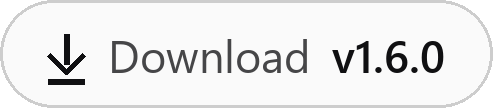
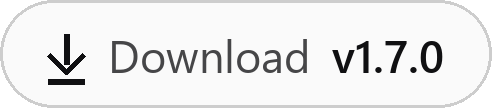
Release PlayBridge 1.7.0: PSN friends and messages, controllers on the PS5, trophies, stats and more

Changed region(s): [[0.2134, 0.3611, 0.6402, 0.6944], [0.6707, 0.3611, 0.8841, 0.6944], [0.0915, 0.3333, 0.1829, 0.6944]]

diff --git a/README.md b/README.md
@@ -1,6 +1,6 @@
 <p align="center"><img src="docs/images/banner.png" alt="PlayBridge: your PS5 games, video and audio on your Windows PC" width="100%"></p>
 <p align="center">
-  <a href="https://github.com/ramalhoboss/PlayBridge/releases/latest"><img alt="Download v1.6.0" src="docs/images/badge-download.png" height="36"></a>
+  <a href="https://github.com/ramalhoboss/PlayBridge/releases/latest"><img alt="Download v1.7.0" src="docs/images/badge-download.png" height="36"></a>
   <img alt="Windows x64" src="docs/images/badge-windows.png" height="36">
   <img alt="PS5 firmware 13.60" src="docs/images/badge-ps5.png" height="36">
   <img alt="Up to 4K60" src="docs/images/badge-4k.png" height="36">
@@ -17,9 +17,32 @@ PlayBridge automatically sends its embedded payload to the console's ELF loader,
 
 No HDMI capture card. No official Remote Play client or PSN Remote Play pairing. A jailbreak-capable PS5 with a working Payload Manager ELF loader is required.
 
-<p align="center"><img src="docs/images/playbridge-games.jpg" alt="PlayBridge Games page with a row of game covers, the selected game's art filling the window, its title, a Play button and cards for play time, size, a 4K 60 fps stream and console temperature" width="100%"></p>
+<p align="center"><img src="docs/images/playbridge-games.jpg" alt="PlayBridge Games page with a row of game and homebrew tiles, the selected app's art filling the window, its title, a Play button and cards for play time, size, a 4K 60 fps stream and console temperature, and the signed-in PSN player in the top bar" width="100%"></p>
 
-> Screenshots show the real application. The Games page above shows a real PS5 library: covers and music come from your own console when you connect, and none are included in the download. The game pictures further down are PS5 captures saved with PlayBridge; the one on the Live page was played back to the app on the PC to take the screenshot. PlayBridge is in English; the console's own language remains whatever you selected on the PS5.
+> Screenshots show the real application. The Games page above shows a real PS5 library: covers and music come from your own console when you connect, and none are included in the download. The Friends page further down shows a real PSN conversation, with the friend's name, their photo and a real name blurred. The game pictures are PS5 captures saved with PlayBridge; the one on the Live page was played back to the app on the PC to take the screenshot. PlayBridge is in English; the console's own language remains whatever you selected on the PS5.
+
+## New in v1.7.0
+
+- **Friends from PlayStation Network:** sign in once in **Settings → Connections → PlayStation Network** and the **Friends** page shows your PSN friends: who is online, what they play and on which console, with **All**, **Online** and **Favourites**. Find a player by online ID, send, accept, decline or take back friend requests, and remove a friend. Your avatar and status sit in the top bar, with a PSN menu.
+- **Your PSN messages:** direct and group conversations, read and answered on the PC. Send text and pictures (pick, paste or drop them) and see the pictures, GIFs, stickers, videos and voice messages your friends send. React with emoji, copy a message, save a picture, delete your own messages for everyone in the 10 minutes after sending them (PSN's own limit), or remove any message from this PC. Favourite or mute a conversation, and create a group, rename it, add or take out people, or leave it. Friends see when you are typing. Everything works with the mouse, the keyboard or a controller.
+- **Alerts:** a Windows notification when a friend comes online, starts a game you watch, sends you a message or a friend request, each one optional.
+- **Trophies:** the trophies of the games on your PS5, read from the console's own files, and every game you have trophies in on PSN, PS4 games included. Compare a game's trophies with a friend's, open a guide for any trophy, and keep a clip when a trophy unlocks.
+- **Stats:** the time you played each game while PlayBridge was connected, by week, game and year, beside the console's own total, with the trophies earned in each session.
+- **Play on your PS5:** up to four controllers connected to the PC play on the console, through a small companion payload of its own that never holds up the stream. Controller profiles swap buttons or sticks, invert a stick, add turbo or one-hand play, or set your own buttons, for every game or for one. The mouse can aim as the right stick, and the PC keyboard plays too.
+- **Your phone:** a phone on the same network shows the game and plays its sound in its own browser, and works as a controller, after pairing once with a six-digit code. Nothing is installed on the phone.
+- **Smooth motion:** on a 120 or 144 Hz screen the graphics card makes in-between pictures from the motion between two frames, so 60 fps looks as smooth as the screen can show.
+- **On screen:** a PS5 performance overlay with the game's frame rate, the CPU and SoC temperatures and the power drawn, a speedrun timer with a split at each trophy, and your Twitch chat over the game and in the live stream.
+- **Captures:** a clip editor in **Media** trims a recording to an MP4, a small MP4 for sharing or a GIF, and the DualSense's own microphone can go into recordings, instant replays and Go live.
+- **Go live to TikTok** as well as Twitch, YouTube, any RTMP server and OBS. TikTok's server address and stream key are pasted for each live stream, as TikTok gives a new pair each time.
+- **Connections:** Discord Rich Presence shows the game you play, and a Discord channel can receive your screenshots, trophy clips and recordings. A control address for Stream Deck, Touch Portal and scripts, and an overlay for OBS, are reachable only from this PC.
+- **PS5 tools:** a payload shelf that reads ELF files from a GitHub repository you choose, the PS5's files through the FTP server a homebrew payload already runs (browse, drag files in, preview), a copy of each game's saves on the PC when the game closes, and a lower fan target for a cooler, louder console.
+- **The Games page as you know it:** the classic library drawing with the game's art moving gently behind it, in **Row**, **Grid** or **List** view. The window has rounded corners and no Windows title bar.
+
+New in this version and not yet tried on a console: the fan target, copying saves, the DualSense microphone and Files. Reboot is now confirmed on a PS5.
+
+The payload changed: manual users should load the v1.7.0 ELF. Controllers use a second payload, PlayBridge-Controller.elf, which PlayBridge sends by itself when **Play on your PS5** is on.
+
+<p align="center"><img src="docs/images/playbridge-friends.jpg" alt="PlayBridge Friends page: the signed-in player and one friend online on the left, and on the right a conversation with pictures, text messages, emoji reactions, a deleted-message note and the box to write in" width="100%"></p>
 
 ## New in v1.6.0
 
@@ -31,14 +54,7 @@ No HDMI capture card. No official Remote Play client or PSN Remote Play pairing.
 - **Notices on the PS5:** an optional notice on the console when the stream starts and ends.
 - **Variable refresh rate checks the screen:** PlayBridge reads the screen's EDID, and only a screen that shows FreeSync, HDMI VRR or Adaptive-Sync gets each frame the moment it is due. On a fixed-rate screen the switch is hidden and every frame waits for the next refresh, so the picture no longer tears.
 
-The payload changed: manual users should load the v1.6.0 ELF.
-
-## New in v1.5.2
-
-- **Variable refresh rate:** on a screen with G-Sync, FreeSync or Adaptive-Sync, as on many gaming laptops, each frame is shown the moment it is due, so 60 fps plays evenly at 144 Hz without switching the screen to 60 Hz. Turn on **Settings → Picture → Variable refresh rate**, shown where the graphics driver supports it, restart PlayBridge and play in full screen (**F11**). It is off by default, because a screen without variable refresh can show tearing.
-- **Your voice in captures:** **Settings → Captures → Microphone** mixes your microphone with the game's sound in recordings, instant replays and Go live, with its own volume. **F7** turns it on and off, and the status line shows MIC. You do not hear yourself in PlayBridge.
-
-The payload is unchanged from v1.5.0. Earlier versions are described in the [changelog](CHANGELOG.md).
+Earlier versions are described in the [changelog](CHANGELOG.md).
 
 ## Download
 
@@ -46,14 +62,14 @@ The payload is unchanged from v1.5.0. Earlier versions are described in the [cha
 
 | File | What it contains |
 |---|---|
-| [PlayBridge.exe](https://github.com/ramalhoboss/PlayBridge/releases/download/v1.6.0/PlayBridge.exe) | Portable Windows application, including Python dependencies and the embedded ELF. |
-| [PlayBridge.elf](https://github.com/ramalhoboss/PlayBridge/releases/download/v1.6.0/PlayBridge.elf) | Standalone PS5 payload for manual loading. |
-| [PlayBridge-Windows-v1.6.0.zip](https://github.com/ramalhoboss/PlayBridge/releases/download/v1.6.0/PlayBridge-Windows-v1.6.0.zip) | Windows EXE and quick-start instructions. |
-| [PlayBridge-Payload-v1.6.0.zip](https://github.com/ramalhoboss/PlayBridge/releases/download/v1.6.0/PlayBridge-Payload-v1.6.0.zip) | ELF and manual-mode instructions. |
-| [PlayBridge-Complete-v1.6.0.zip](https://github.com/ramalhoboss/PlayBridge/releases/download/v1.6.0/PlayBridge-Complete-v1.6.0.zip) | Both files, quick-start instructions and component notices. |
-| [Third-party-licenses.zip](https://github.com/ramalhoboss/PlayBridge/releases/download/v1.6.0/Third-party-licenses.zip) | Component notices for standalone downloads. |
-| [PlayBridge-Source-v1.6.0.zip](https://github.com/ramalhoboss/PlayBridge/releases/download/v1.6.0/PlayBridge-Source-v1.6.0.zip) | Application and payload source, assets, tests and build instructions. |
-| [SHA256SUMS.txt](https://github.com/ramalhoboss/PlayBridge/releases/download/v1.6.0/SHA256SUMS.txt) | Checksums for the release downloads. |
+| [PlayBridge.exe](https://github.com/ramalhoboss/PlayBridge/releases/download/v1.7.0/PlayBridge.exe) | Portable Windows application, including Python dependencies and the embedded ELF. |
+| [PlayBridge.elf](https://github.com/ramalhoboss/PlayBridge/releases/download/v1.7.0/PlayBridge.elf) | Standalone PS5 payload for manual loading. |
+| [PlayBridge-Windows-v1.7.0.zip](https://github.com/ramalhoboss/PlayBridge/releases/download/v1.7.0/PlayBridge-Windows-v1.7.0.zip) | Windows EXE and quick-start instructions. |
+| [PlayBridge-Payload-v1.7.0.zip](https://github.com/ramalhoboss/PlayBridge/releases/download/v1.7.0/PlayBridge-Payload-v1.7.0.zip) | Both ELFs (the stream and the controllers) and manual-mode instructions. |
+| [PlayBridge-Complete-v1.7.0.zip](https://github.com/ramalhoboss/PlayBridge/releases/download/v1.7.0/PlayBridge-Complete-v1.7.0.zip) | The EXE, both ELFs, quick-start instructions and component notices. |
+| [Third-party-licenses.zip](https://github.com/ramalhoboss/PlayBridge/releases/download/v1.7.0/Third-party-licenses.zip) | Component notices for standalone downloads. |
+| [PlayBridge-Source-v1.7.0.zip](https://github.com/ramalhoboss/PlayBridge/releases/download/v1.7.0/PlayBridge-Source-v1.7.0.zip) | Application and payload source, assets, tests and build instructions. |
+| [SHA256SUMS.txt](https://github.com/ramalhoboss/PlayBridge/releases/download/v1.7.0/SHA256SUMS.txt) | Checksums for the release downloads. |
 
 Download the release assets above to run the application. To inspect or build it, browse [app/](app/), [payload/](payload/) and [tools/](tools/), or download the source archive. GitHub's source archives contain source files, not the Windows EXE.
 
@@ -163,7 +179,27 @@ Captures are saved in **Videos/PlayBridge**, in the Screenshots and Recordings f
 
 The line at the bottom of the window shows the stream's size, bitrate target, received bitrate and whether the GPU is decoding. **Settings → Picture → Show performance stats** adds the frame rate, PC timing and audio queue to it.
 
-### 6. Console power
+### 6. Friends and messages
+
+1. Open **Settings → Connections → PlayStation Network** and select **Open playstation.com**. Sign in to your PlayStation account in your browser.
+2. In the same browser, select **Open Sony's code page**. It shows a line with npsso and 64 letters and numbers.
+3. Paste the code, or the whole line, under **Paste the code**. PlayBridge keeps the sign-in encrypted for your Windows user, and **Sign out** forgets it.
+
+The **Friends** page then shows your friends, your friend requests and your conversations. **Add friend** finds a player by online ID. Select **Message** next to a friend, or a conversation, to open it.
+
+| In a conversation | Action |
+|---|---|
+| Type, then **Enter** or **Send** | Send a message. The picture button, **Ctrl+V** with a copied picture, or dropping a picture file sends a picture. |
+| Point at a message, or move to it with the keys or a controller | Show its buttons: **React**, **Copy**, **Save** for a picture, **Delete** for your own recent message, and **Remove from this PC**. |
+| **Enter** / ✕ on a message | Open the reactions, play a voice message or open a picture. |
+| Star, bell and **⋯** at the top | Favourite or mute the conversation, and its options: rename a group, add or take out people, or leave it. Without a conversation open, **New group**. |
+| **Escape** / ○ | Close the reactions, a card or the conversation. |
+
+PSN lets you delete only your own messages, and only in the 10 minutes after sending them. **Remove from this PC** hides any message on this PC only. Pictures go up the way the PlayStation App sends them: turned upright, without their location data, at up to 768 pixels on the long side. Moving GIFs cannot be sent yet. **Settings → Connections → PlayStation Network** also has the alerts for friends coming online, games they start, messages and friend requests.
+
+**Trophies** shows the trophies of the games on your PS5 and every game you have trophies in on PSN, with a friend's beside them. **Stats** shows the time each game ran while PlayBridge was connected, by week, game and year. **Files** browses the PS5 through an FTP server that a homebrew payload already runs on ports 2121, 1337 or 21; PlayBridge does not start one.
+
+### 7. Console power
 
 The power icon, and **Settings → Console → Power**, need a connected PS5. Each command asks before it runs.
 
@@ -171,7 +207,7 @@ The power icon, and **Settings → Console → Power**, need a connected PS5. Ea
 |---|---|---|
 | Soft reset | Closes the running game and launches it again. The PS5 itself has no soft reset. | Closing and launching each, yes; the two together, not yet |
 | Rest mode | Puts the console into rest mode. | Yes |
-| Reboot | Restarts the console. You need to load your exploit again afterwards. | Not yet |
+| Reboot | Restarts the console. You need to load your exploit again afterwards. | Yes |
 | Turn off | Turns the console off. You need to load your exploit again next time. | Not yet |
 | Recovery | Explains how to start Safe Mode from the console itself. PlayBridge never starts Safe Mode. | Instructions only |
 
@@ -181,7 +217,7 @@ In **Settings → Console**, type a name under **Favourite** and select **Save t
 
 ### Go live
 
-In **Settings → Streaming**, choose **Twitch**, **YouTube**, **Other RTMP server** or **OBS on this PC**, enter your stream key or server where asked, and select **Go live**. **Ctrl+B**, or the Go live icon below the picture, starts and ends it with those settings.
+In **Settings → Streaming**, choose **Twitch**, **YouTube**, **TikTok**, **Other RTMP server** or **OBS on this PC**, enter your stream key or server where asked, and select **Go live**. **Ctrl+B**, or the Go live icon below the picture, starts and ends it with those settings.
 
 PlayBridge sends on the H.264 video and AAC sound the PS5 already made, without encoding them again, so it costs the PC almost nothing, and recording and instant replay keep working while you are live. The broadcast uses your quality profile: Twitch recommends at most 6 Mbit/s, so **Data saver** suits it best. **OBS on this PC** receives the stream on UDP port 9100 of this PC.
 
@@ -190,6 +226,10 @@ PlayBridge sends on the H.264 video and AAC sound the PS5 already made, without 
 ### Send a payload
 
 **Settings → Console → Send a payload** sends any ELF file you choose to the loader on port 9021, the same way PlayBridge sends its own. It asks first, and the menu keeps your five most recent files. A payload runs with full access to the PS5, so send only files you trust.
+
+### Play on your PS5
+
+**Settings → Console → Controller → Play on your PS5** sends up to four controllers connected to the PC to the console, through a small companion payload, PlayBridge-Controller.elf, that PlayBridge sends by itself. Each controller appears on the PS5 only while it is used, and the stream never waits for it. **Controller profile** changes buttons, sticks, turbo or one-hand play for every game or for one. **Mouse aim** turns the mouse into the right stick: click the picture to aim, and **Escape** lets go. **Settings → Phone** shows a six-digit code; a phone on the same network that enters it gets the picture, the sound and a controller in its browser.
 
 ### Manual mode
 
@@ -206,10 +246,10 @@ The standalone ELF waits for one viewer per execution. After ending a manual ses
 | Video | Native console capture, H.264, at 1080p, 1440p (experimental) and 4K (experimental), with a 60 fps capture rate and bitrate targets from 4 to 80 Mbit/s. |
 | Audio | AAC at **128 kbit/s**, decoded to **48 kHz stereo** and played through **Windows WASAPI**. |
 | Automatic loading | The EXE embeds PlayBridge.elf and sends it to the console's existing ELF loader. |
-| Games | The PS5's installed games with covers, the game's own music where it has one, play time, last played and size. Play, Resume and Close, search and five rows. Read during a session and kept on the PC. |
+| Games | The PS5's installed games with covers, the game's own music where it has one, play time, last played and size. Play, Resume and Close, search, five rows and a Row, Grid or List view. Read during a session and kept on the PC. |
 | Gaming Mode | Your games fullscreen on the PC; when the console's menu comes to the front, the PC shows your games instead. |
 | Console status | The game in front, CPU and SoC temperature, and whether a console found on the network is resting. |
-| Power | Rest mode, soft reset (close and relaunch the game), and reboot and turn off (not yet tested on a console). Each asks first. |
+| Power | Rest mode, soft reset (close and relaunch the game), reboot, and turn off (not yet tested on a console). Each asks first. |
 | Graphics card | Settings names the card that decodes the stream and asks it which stream sizes it can decode. |
 | Presentation | **Direct3D 11** by default: the GPU decodes the video, converts its colour, scales it and presents it, with optional sharpening and optional AMD FSR 1 upscaling when the screen is larger than the stream. Windows **GDI** remains as the automatic fallback and as a switch in Settings. Both show one frame per monitor refresh from a short queue, and skip frames rather than letting the delay grow. With **Variable refresh rate** on, Direct3D 11 sends each frame at its own time instead, on a screen whose EDID shows FreeSync, HDMI VRR or Adaptive-Sync; a fixed-rate screen keeps one frame per refresh, so it does not tear. |
 | Decoding | Separate from the network thread, so a slow decoder drops video until the next keyframe instead of stalling audio or the connection. Software decoding uses frame threads above 1080p. |
@@ -223,14 +263,21 @@ The standalone ELF waits for one viewer per execution. After ending a manual ses
 | Instant replay | The last 30 s, 60 s or 2 minutes of the stream kept in PC memory (up to 1 GB) and saved as an MP4 with F10, without re-encoding. |
 | Microphone | Optional, off by default: your voice mixed with the console's sound in recordings, instant replays and Go live, with its own volume and F7 to turn it on and off. While it is on, the sound is encoded to AAC again; while it is off, the console's sound is copied untouched. |
 | Media | Photos and MP4 recordings with thumbnails, filters and paging, read in the background. **From your PS5** lists the console's own screenshots and clips and copies them to the PC. |
-| Go live | The console's H.264 and AAC copied, without encoding again, to Twitch, YouTube (RTMPS), any RTMP server, or OBS over UDP on this PC. The stream key is kept encrypted with Windows DPAPI. |
+| Go live | The console's H.264 and AAC copied, without encoding again, to Twitch, YouTube (RTMPS), TikTok, any RTMP server, or OBS over UDP on this PC. The stream key is kept encrypted with Windows DPAPI. |
 | Game close | When the console stops the capture, for example while a game closes from its menu, the payload waits for it and opens the capture again, so the session continues after a short pause. |
 | Send a payload | Any ELF up to 64 MB sent to the loader on port 9021, after a question. |
 | Small window | The game in a small window that stays above other windows (Ctrl+M). |
 | Diagnostics | Session panel and status line, plus an exported ZIP without IP addresses, device names, file paths or logs. |
-| Interface | English, drawn with Qt Quick on the graphics card: frosted glass panels, the focused game's art behind the page, game tiles in a row at the top and gold as a small accent. The selected tile turns in 3D with the mouse or the right stick. Settings flows into columns that use the window's width. Animations are optional, and nothing moves while a game is on screen. **Glass look** off, or a PC where Qt cannot start, gives the classic window. |
+| Interface | English, drawn with Qt Quick on the graphics card: frosted glass panels, the focused game's art behind the page and gold as a small accent, in a window with rounded corners and no Windows title bar. The Games page keeps the classic library drawing. Settings flows into columns that use the window's width. Animations are optional, and nothing moves while a game is on screen. **Glass look** off, or a PC where Qt cannot start, gives the classic window. |
 | Updates | Looks for a new release on GitHub when it opens and every six hours, downloads PlayBridge.exe in the background at about 1.5 MB/s, keeps it only when it matches the release's SHA256SUMS.txt, and puts it in when the app closes. Can be turned off. |
-| PC controller | A controller connected to the PC (XInput or a standard Windows game controller) can move around the games page. It is not sent to the console. |
+| Controllers | **Play on your PS5**: up to four PC controllers (XInput or standard Windows game controllers), the mouse as the right stick and the keyboard play on the console through a companion payload on UDP port 9078, with per-game profiles. Otherwise a PC controller moves around PlayBridge's pages. |
+| PlayStation Network | Friends with their status and game, friend requests, direct and group messages with pictures, reactions, delete and remove, alerts, and the player in the top bar. The sign-in is kept encrypted with Windows DPAPI. |
+| Trophies and stats | Trophies from the console's own files and from PSN, compared with a friend's, with guides and a clip kept when one unlocks. Play time by session, week, game and year. |
+| Phone | The picture, the sound and a controller in a paired phone's browser, on port 9080 of this PC. |
+| Smooth motion | In-between pictures made on the graphics card for 120 and 144 Hz screens. |
+| Overlay | PS5 frame rate, temperatures and power, a speedrun timer, a trophy as it unlocks and Twitch chat, drawn into the picture on screen and in the live stream. |
+| Connections | Discord Rich Presence and a Discord channel for captures, Twitch chat read anonymously, and a control address and OBS overlay on 127.0.0.1:9095 that need a secret made on this PC. |
+| PS5 tools | Payload shelf from a GitHub repository you choose, PS5 files over a homebrew FTP server, saves copied when a game closes, and a fan target. |
 | Distribution | A portable single-file Windows EXE; no separate Python installation. |
 | Preferences | Saved console, favourites, quality profile, audio output, capture folder, replay length, video output, sounds and Gaming Mode. |
 | Runtime | No artificial stream time limit. Long sessions still need wider stability testing. |
@@ -245,7 +292,8 @@ The standalone ELF waits for one viewer per execution. After ending a manual ses
 4. **Transport:** a small custom TCP framing protocol carries packet type, size and PTS/DTS. TCP_NODELAY and a bounded send buffer help avoid unnecessary batching.
 5. **Decode and present:** the PC uses PyAV for H.264/AAC, with Direct3D 11 video decoding on the GPU when it is available. A short frame queue is paced to the monitor's refresh, and Direct3D 11 converts, scales and presents each frame, with GDI as the fallback. Audio uses sounddevice/PortAudio with WASAPI.
 6. **Control:** during a session the payload also opens a control port, 9077, on which the PC asks for the console's status and game library, lists and copies the console's own captures, and sends launch, close and power commands. It answers only while the session runs.
-7. **Release:** closing/disconnecting the receiver ends the session; the payload stops and closes capture resources through the normal client interfaces.
+7. **Companions:** controllers go to a separate companion payload on UDP port 9078, and the DualSense's microphone comes over port 9079, each only while it is used.
+8. **Release:** closing/disconnecting the receiver ends the session; the payload stops and closes capture resources through the normal client interfaces.
 
 ### How we developed it
 
@@ -263,8 +311,8 @@ This project does **not** distribute the console's firmware dumps, extracted pro
 
 ## Source code
 
-- **[app/](app/)** — Python receiver, English interface, Games page and Gaming Mode, Direct3D 11 and GDI presenters, frame pacing, console control, the console's captures, Go live, payload sending, the library's sounds, Media page and diagnostics.
-- **[payload/](payload/)** — firmware-13.60 C capture sender, console control port, capture options and packet framing.
+- **[app/](app/)** — Python receiver, English interface, Games page and Gaming Mode, Direct3D 11 and GDI presenters, frame pacing and smooth motion, console control, PSN friends, messages and trophies, stats, files, controllers and the phone page, the overlay, Discord, Twitch and the local control address, the console's captures, Go live, payload sending, the library's sounds, Media page and diagnostics.
+- **[payload/](payload/)** — firmware-13.60 C capture sender, console control port, controller companion, DualSense microphone, capture options and packet framing.
 - **[app/assets/](app/assets/)** — application icon and control artwork.
 - **[tools/](tools/)** — payload compiler wrapper, the app's artwork generator and the README art, drawn with the app's own code.
 - **[tests/](tests/)** — automated tests for conversion, capture, pacing, both presenters, console control, the games page, sounds, metrics, discovery, the desktop features and the theme.
@@ -324,8 +372,10 @@ These are **PC pipeline measurements**, not total HDMI-to-PC latency, controller
 
 - **13.60 only.** Firmware-specific interfaces and offsets are used.
 - **1080p tested; 1440p and 4K experimental.** With a 4K output, the 1440p and 4K profiles streamed at their native size at a 60 fps capture rate, on the console's menus and in a game, where the game itself was drawing about 30 fps. Long sessions have not been tested, and a coded 4K stream does not prove that a game renders at 4K. On a lower output they stream at the highest resolution it allows and say so. See [capture options](docs/CAPTURE-OPTIONS.md).
-- **No controller input to the console.** Use your controller with the PS5. A controller on the PC only moves around the games page, and few controller models have been tried.
-- **Reboot and Turn off are untested.** They are in the app, each behind a question, but have not yet been run on a console. Rest mode is confirmed. After a reboot or power off you need to load your exploit again.
+- **Controllers through a second payload.** Play on your PS5 sends PC controllers through PlayBridge-Controller.elf. Few controller models have been tried.
+- **PlayStation Network features use the PlayStation App's own interfaces** with your sign-in. They were tried with one account, and Sony can change them at any time.
+- **New and not yet tried on a console:** the fan target, copying saves, the DualSense microphone and Files.
+- **Turn off is untested.** It is in the app, behind a question, but has not yet been run on a console. Rest mode and reboot are confirmed. After a reboot or power off you need to load your exploit again.
 - **No Home button.** Calls that should show the console's home screen returned success and changed nothing, so the command was removed. In Gaming Mode the PC shows your games instead.
 - **One game at a time.** This is how the PS5 works: launching another game closes the one that is open.
 - **Closing a game pauses the picture** for about a second while the console's close screen is up.
@@ -350,7 +400,10 @@ These are **PC pipeline measurements**, not total HDMI-to-PC latency, controller
 | The picture pauses for about a second when I close a game | Expected: the console stops the capture while its close screen is up, and PlayBridge opens it again. |
 | Go live stops with an error | Check the stream key, or the server address for another RTMP server. A broadcast needs a connected session. For Twitch, choose a profile of 6 Mbit/s or less, such as **Data saver**. |
 | From your PS5 lists nothing | It needs a connected session. It lists only captures the PS5 saved itself, in its capture folders. |
-| A game shows "controller not detected" | That is the game itself on the PS5. Turn on the controller that is paired with the console. |
+| Signing in to PSN fails | Open Sony's code page in the same browser where you signed in to playstation.com, and paste the whole line or its 64 letters and numbers. |
+| A chat action says PSN refused it | The line under the conversation shows Sony's answer. Deleting works only for your own messages, in the 10 minutes after sending them. |
+| Files finds no FTP server | Start an FTP server on the PS5 from your homebrew menu. PlayBridge looks on ports 2121, 1337 and 21. |
+| A game shows "controller not detected" | That is the game itself on the PS5. Turn on the controller that is paired with the console, or switch on **Play on your PS5** for a PC controller. |
 | Picture looks wrong, black or stutters on the GPU output | Switch off **Settings → Picture → GPU video output** and restart PlayBridge to use GDI. Please report your graphics card. |
 | A 4K profile gives 1080p | The PS5's video output is lower than the profile. Check the line at the bottom of the window, the PS5's Resolution setting, the display and the HDMI cable. |
 | No picture on the TV at 2160p | Try an HDMI cable rated for 4K at 60 Hz. |
@@ -371,6 +424,7 @@ Preferences, the game library and local diagnostic files are stored in <code>%LO
 
 ## Release history
 
+- **v1.7.0:** PSN friends and messages, trophies and stats, PC controllers and your phone playing on the PS5, smooth motion for fast screens, a performance overlay and speedrun timer, a clip editor, Discord, Twitch chat, Stream Deck and OBS, PS5 files, saves and fans, and the classic Games page in three views.
 - **v1.6.0:** a new look with 3D game tiles, automatic updates, tiles read again on every connection, smaller recordings and Go live streams in HEVC or AV1, settings that apply at once, a focus ring for keys and controllers, notices on the PS5, and variable refresh only on screens that support it.
 - **v1.5.2:** variable refresh rate for G-Sync, FreeSync and Adaptive-Sync screens, and your microphone in recordings, instant replays and Go live.
 - **v1.5.1:** sound on PCs whose output mixes at another rate, the NVIDIA or AMD card on laptops with two graphics cards, 144 and 165 Hz screens switched to a steady rate while a game streams, the screen kept on during a session, and clearer stutter reports.
@@ -386,6 +440,8 @@ Preferences, the game library and local diagnostic files are stored in <code>%LO
 
 ## Credits
 
-Created by **[ramalhoboss](https://github.com/ramalhoboss)** · **[X: @nuno_leugim_10](https://x.com/nuno_leugim_10)**, with iterative testing on the owner's PS5 and PC. Built using Python, PyAV/FFmpeg, Direct3D 11, NumPy, CustomTkinter, Pillow, sounddevice/PortAudio, CFFI, PyInstaller and a PS5 homebrew payload SDK. Firmware research used static analysis/decompilation tools, including Ghidra.
+Created by **[ramalhoboss](https://github.com/ramalhoboss)** · **[X: @nuno_leugim_10](https://x.com/nuno_leugim_10)**, with iterative testing on the owner's PS5 and PC. Built using Python, PySide6/Qt, PyAV/FFmpeg, Direct3D 11, NumPy, CustomTkinter, Pillow, sounddevice/PortAudio, CFFI, PyInstaller and a PS5 homebrew payload SDK. Firmware research used static analysis/decompilation tools, including Ghidra.
+
+How the console keeps trophies was worked out by [OpenPSApp](https://github.com/marcelorsdd/OpenPSApp) (GPL-3.0), and the console's fan target was found by ShadowMountPlus (GPL-3.0); PlayBridge's code for both is its own.
 
 PlayBridge is an independent homebrew project and is not affiliated with Sony Interactive Entertainment. Third-party components retain their respective licenses. No blanket license for third-party software or console firmware is granted by this repository.
